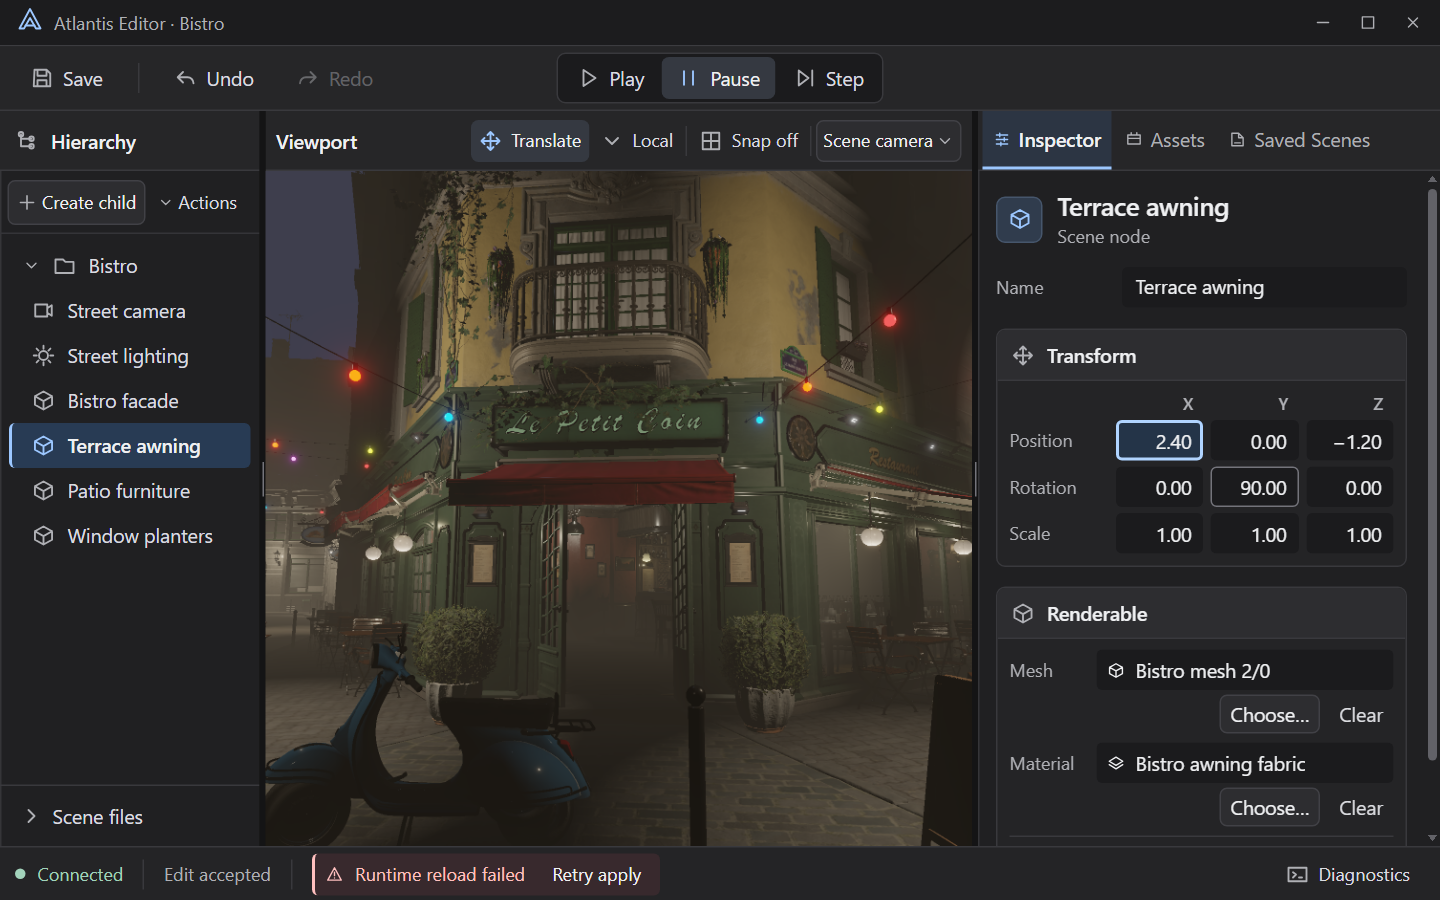
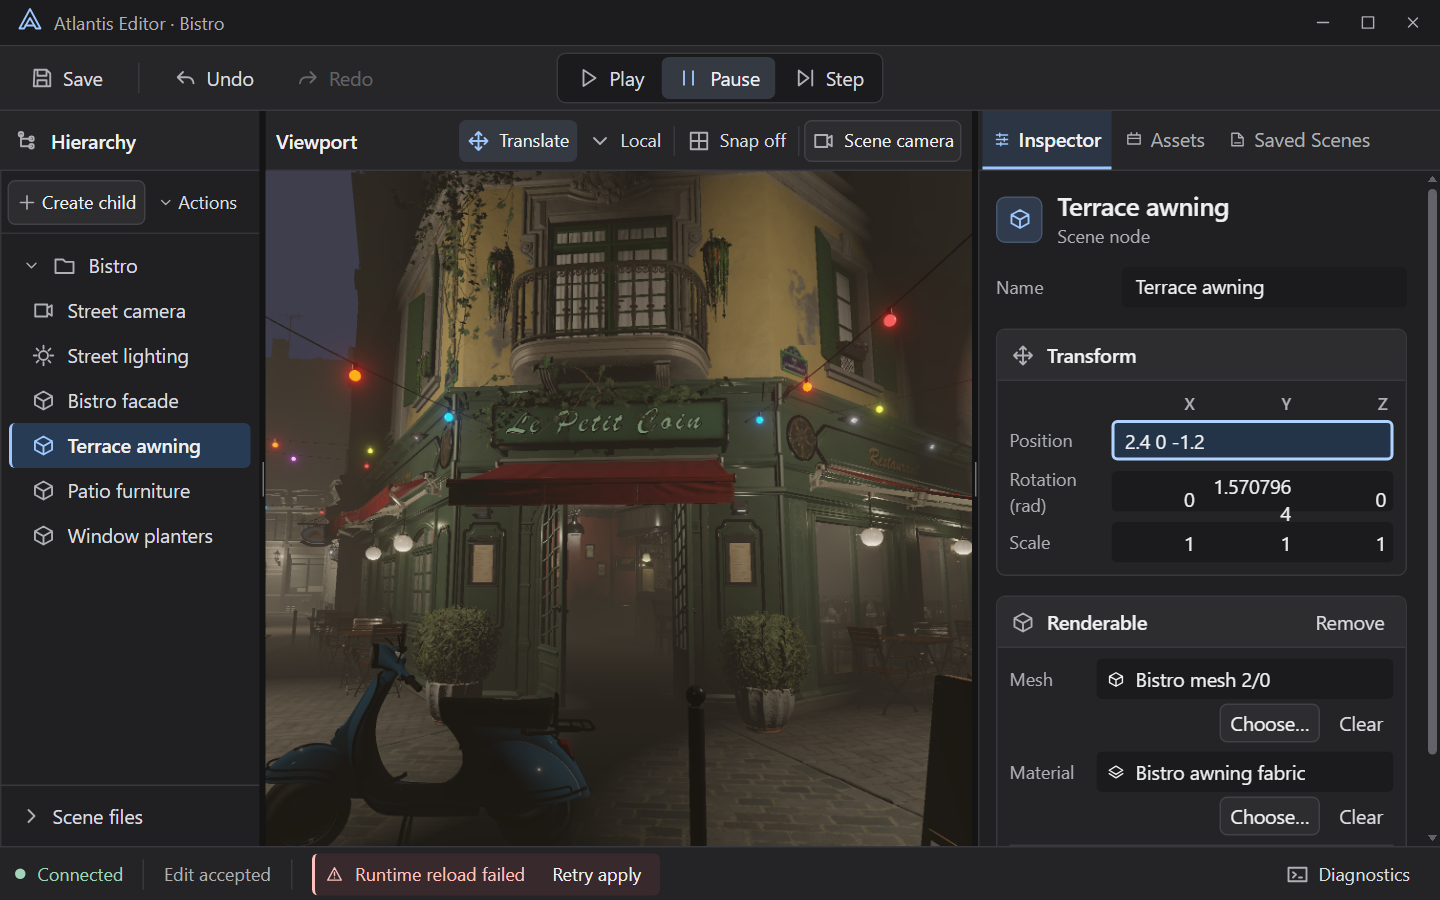
spec: settle editor visual review details

diff --git a/docs/plans/0093-editor-visual-layout.md b/docs/plans/0093-editor-visual-layout.md
@@ -20,8 +20,9 @@ while preserving current actions, authority, and state transitions.
    resources and original icon paths. Use the existing layout, list, tab,
    text and disclosure controls to recompose the command row, Viewport
    toolbar, panes, status strip and details. Establish the object and
-   component hierarchy and a shared set of Transform column headings.
-   Preserve existing pointer routes, field bindings and keyboard order.
+   component hierarchy and shared Transform column headings. Style each
+   vector as one editor over the existing reflected field. Preserve pointer
+   routes, field bindings, vector units, keyboard order and edit settlement.
 3. **S3. Workspace tabs and chooser (R2/R3/R4).** Group the current Assets
    list, selected asset, preview, Rebuild and Import controls. Group Saved
    Scenes inputs, results and logs. Keep stable search and confirmation
@@ -37,9 +38,10 @@ while preserving current actions, authority, and state transitions.
 - `src/editor_app/Atlantis.Editor/{Program,MainWindow,AssetReferencePickerWindow}.cs`
   and one private `EditorVisuals.cs` for shared resources, styles and icon
   geometry. Keep the current C# composition and project inputs.
-- `EditorSession.cs` only to pass the existing `ApplyStatus` alongside
-  the current apply message to the window. Preserve scheduling, results,
-  enablement and recovery rules.
+- `EditorSession.cs` only to publish the existing `ApplyStatus` with the
+  current message, including the lost-acceptance path. Capture them from
+  the same state and preserve document lifetime checks. The existing apply
+  control flags still determine enablement. Preserve scheduling and recovery.
 - Affected UI fixtures under `src/editor_app/tests/Atlantis.Editor.Tests/`,
   limited to layout, accessible names and keyboard behavior, Assets,
   Saved Scenes and the reference picker. Navigation in `docs/specs/README.md`.
@@ -58,37 +60,57 @@ Preserve [0082 reference editing](../specs/0082-generic-asset-reference-picker.m
 
 | Decision | Recommendation |
 | --- | --- |
-| **J1. Window layout** | Approve the refined three-pane layout, centered transport, local Viewport tools, inline scene file commands and compact workspace scrolling. |
-| **J2. Visual system and resources** | Approve neutral dark gray surfaces, the Segoe UI hierarchy, aligned XYZ columns and project-authored line icons in existing controls. |
-| **J3. Details, chooser and state** | Approve grouping for Assets and Saved Scenes, reachable technical details and the preview/confirmation proportions. Preserve existing focus, draft, apply, build/open and recovery rules. |
-| **J4. Acceptance** | Approve the actual Windows size/DPI matrix, long-content and interaction checks, and final-diff gate selection below. |
+| **J1. Window layout** | Approve the refined three-pane layout, centered transport, local Viewport tools, inline scene file commands, visible Apply and compact workspace scrolling. |
+| **J2. Visual system and resources** | Approve neutral dark gray surfaces, the Segoe UI hierarchy, aligned XYZ summaries with one editor per vector, and project-authored line icons. |
+| **J3. Details, chooser and state** | Approve grouping for Assets and Saved Scenes, reachable technical details, distinct current and candidate references, and the preview/confirmation proportions. Preserve existing focus, draft, apply, build/open and recovery rules. |
+| **J4. Acceptance** | Approve the actual Windows size/DPI matrix with live reflow and Viewport input checks, long-content and interaction checks, and final-diff gate selection. |
+
+### Recommended authorization
+
+After a human jointly approves J1–J4, Spec 0093 and Plan 0093 and merges
+this design PR, implement S2–S4 from the latest main under one authorization.
+It covers implementation, ordinary fixes inside the approved scope,
+applicable checks and a review-ready implementation PR. Reuse verification
+evidence only where its relevant inputs and environment still match. Record
+milestone results as work progresses. Follow the repository workflow for
+scope deviations, verification evidence and final human merge.
 
 ## Verification Checklist
 
 - [ ] **R1/R2. Actual Windows sizes and DPI.** Build the Windows Editor and
   run with a real embedded Runtime. Check approximately 1400 × 860 client
   DIP at 100%, 1100 × 700 at 125%, and 960 × 600 at 150% and 200% on a
-  display with enough work area. Record actual client dimensions, scaling
-  and monitor/work area. Maximize, restore and resize through the compact
-  transition. Move one instance between differently scaled monitors when
-  available, or exercise it through a Windows scale change and report the
-  substitution. Capture native-resolution main and material-chooser
-  windows at 100% and higher scaling. Capture Assets and Saved Scenes at
-  standard and compact sizes with preview and current build outcomes.
-  Check clean text and icons, usable
-  pane widths, reachable actions, no clipping, and no child viewport
-  overlap or input offset.
+  display with enough work area. Record client DIP and physical pixel
+  dimensions, actual scaling and monitor work area for each case. A missing
+  display configuration leaves that case unverified. Maximize, restore,
+  drag both splitters and cross the compact transition by resizing.
+  Move one running instance between differently scaled monitors when
+  available. On a single display, exercise a Windows scale change on
+  that instance and record the substitution and observed scaling.
+  Verify tab, selection and draft retention through reflow. Check
+  Viewport bounds and pick or gizmo hit alignment after a live scale
+  change and after resizing. Capture native-resolution main and material
+  chooser windows at 100% and higher scaling. Capture Assets and Saved
+  Scenes at standard and compact sizes. Check clean text and icons,
+  reachable commands and no child viewport overlap.
 - [ ] **R2/R3. Density, contrast and long content.** Compare the approved
   mockups with actual Windows captures. Check visible distinctions between
   resting, hover, selected, active, focused and failed states and measure
-  contrast as specified. Check XYZ alignment, accessible axis labels and
-  stable keyboard order at both sizes. Use a long Unicode node/asset name,
-  a long unbroken path, a full GUID and a multiline Runtime or build
-  failure. Confirm complete values are readable and copyable in details
+  contrast as specified. Check XYZ alignment, accessible property and axis
+  order, and one tab stop per vector at both sizes. Enter one vector edit
+  and verify one transaction, one Undo step and the correct Redo value.
+  Check Escape, invalid input, exact float text and a focused vector draft
+  across the pane reflow. Verify Rotation retains radians. Use a long
+  Unicode node/asset name, a long unbroken path, a full GUID and a
+  multiline Runtime or build failure. Confirm complete values are readable and copyable in details
   without horizontal window scrolling. Check the material chooser at
   standard size and at 600 × 600 DIP at 150% or 200%, with search and
   footer available and preview below results at the narrow size. Check
-  the non-preview variant as well.
+  the non-preview variant and its existing type filter for an untyped field.
+  Check current-reference feedback for an absent value, an asset outside the
+  snapshot and a listed wrong-type asset. Check that keyboard navigation
+  keeps the active result visible in a long list and can reach the preview
+  and footer without walking the catalog.
 - [ ] **R3/R4. Interaction and state.** Exercise keyboard traversal and
   visible focus. Expand reference details, edit the raw GUID and check
   Enter/Escape, blur, and a draft through refresh. Exercise F4, pointer
@@ -96,29 +118,31 @@ Preserve [0082 reference editing](../specs/0082-generic-asset-reference-picker.m
   rules for guarded Clear, stale or filtered-out candidates and full
   metadata/dependency access. Check Assets empty/loading/busy/refused
   states and an explicit preview retry. Verify that filter and Reload view
-  stay reachable when the preview or details scroll. Exercise the existing
-  Rebuild and Import entry points and verify busy or failed results and
-  their next actions remain reachable through the grouping. Switch candidates during an
-  outstanding preview: no stale image or error may reappear and Confirm
-  follows its existing guard. Check inline New Scene / Save As and
-  Saved Scenes build/open when available. Check successful build and
-  independent Open, stale results with Open disabled, a failed build and
-  retry, and copyable checkout, output and log paths. Exercise an authoring
-  edit with a visible failed or paused apply result, explicit recovery,
-  Undo/Redo, Save and the Viewport gizmo. Record normal Runtime exit and
-  a clean Windows Vulkan validation log during this session.
+  stay reachable when a long result list, preview or details scroll.
+  Reload view with a detail request pending and verify the selected asset's
+  new detail wins. Exercise Rebuild and Import and verify busy or failed
+  outcomes and recovery stay discoverable with the grouping collapsed.
+  Switch candidates during a pending preview and check stale image/error
+  suppression and the independent Confirm guard. Check inline New Scene
+  and Save As, and verify that receipt hints leave local selection explicit
+  in Saved Scenes. Check successful build and independent Open, stale
+  results with Open disabled, failed build and retry, and copyable checkout,
+  output and log paths. Exercise a visible failed or paused apply and an
+  external edit requiring explicit apply. Check recovery, Undo/Redo,
+  Save, the Viewport gizmo and the Scene camera reset action. Record normal
+  Runtime exit and a clean Windows Vulkan validation log during this session.
 - [ ] **Applicable gates.** Run the focused Editor build and affected managed
   model and UI checks, retaining locked package verification. Run
-  `atlantis_runtime --gate --applies` on the final diff and record the result.
+  `git diff --name-only origin/main... | atlantis_runtime --gate --applies`
+  against the final candidate and record the result.
   Editor-only styles/layout are expected to leave engine golden and
   performance gates inapplicable. If affected paths or rendered output
   select a gate, follow the existing policy, including human review of
   any engine golden change. Keep the separate #340 historical hold.
 - [ ] **Design PR.** Check local links, whitespace, palette contrast and
   mockup legibility at 100% and 150% rendered independently. Compare
-  main window and chooser before/after at the same logical dimensions. These
-  studies support visual review; the actual Windows matrix remains
-  implementation acceptance.
+  main window and chooser before/after at the same logical dimensions.
+  Use the actual Windows matrix for implementation acceptance.
 
 ## Rollback Plan
 

diff --git a/docs/specs/0093-editor-visual-layout.md b/docs/specs/0093-editor-visual-layout.md
@@ -9,10 +9,10 @@
 
 ## Summary
 
-Refine the Windows Atlantis Editor App's three-pane layout in neutral dark gray. Put scene
-commands next to the work they affect, make selection and keyboard focus
-easy to distinguish, and put object names, asset names and previews ahead
-of identifiers and diagnostics.
+Refine the Windows Atlantis Editor App's three-pane layout in neutral
+dark gray. Put scene commands next to the work they affect, make selection
+and keyboard focus easy to distinguish, and put object names, asset names
+and previews ahead of identifiers and diagnostics.
 
 ## Motivation / Problem Statement
 
@@ -55,14 +55,19 @@ panes, and the existing Inspector, Assets and conditional Saved Scenes tabs.
 Put Save and Undo/Redo at the left of a common command row, and group
 Play/Pause/Step at its center. Keep Create child near the tree and put the
 other existing structural actions in an inline **Actions** disclosure. Group
-transform mode, coordinate space, snap and scene camera at the Viewport.
+transform mode, coordinate space, snap and the existing **Scene camera**
+reset action at the Viewport.
 Place New Scene / Save As in an inline **Scene files** section with their
 existing permission and result states. Give measurement and detailed
 diagnostics a labeled **Diagnostics** section below the workspace, open
 by default for explicit diagnostic modes. Keep ordinary connection,
-document and Runtime results visible in a compact strip. Reflow within the
-same panes at small widths. Keep managed controls and feedback outside the
-native child Viewport's bounds.
+document and Runtime results visible in a compact strip. Keep the existing
+explicit Apply action available beside the apply status whenever its guard
+allows, including recovery and external edits that require apply.
+Use the width of each pane after splitter moves to choose its compact
+form. Wrap the Viewport controls in their header if necessary. Keep a
+usable Viewport at supported client sizes and keep controls and feedback
+outside the native child Viewport's bounds.
 
 **R2. Type, surfaces and states.** Use the existing Fluent controls and the
 Windows-installed Segoe UI family with system fallback. Start with 13 DIP
@@ -84,10 +89,17 @@ Require 4.5:1 contrast for enabled text and 3:1 for focus and essential
 control boundaries, including search when at rest.
 
 Use one set of X/Y/Z column headings for the Transform group. Align
-Position, Rotation and Scale against those headings and use tabular,
-right-aligned values. Keep each field's property and axis available to
-assistive technology. When columns cannot fit, repeat the axis labels in
-the reflow and preserve value precision, the draft and keyboard order.
+the unfocused Position, Rotation and Scale summaries against those
+headings using tabular values. Each row retains one vector text editor
+and one tab stop. Focus opens the whole existing space-separated vector
+draft in place. Keep the existing parser, precision and units, including
+radians for Rotation. Label the editor for accessibility with its
+property, unit when applicable and X/Y/Z order. When columns cannot fit,
+wrap the labeled summary and keep the same editor and draft. Enter,
+Escape and ordinary blur retain their existing behavior. One accepted
+edit of a vector remains one property transaction and one history step.
+Keep the other schema-derived fields and Add/Remove component actions
+with their existing guards.
 
 **R3. Information hierarchy and chooser.** Give the Inspector a distinct
 selected-object header, then group editable fields by component. Keep
@@ -98,36 +110,53 @@ Keep long values discoverable in full. Use a keyboard-reachable disclosure
 for raw GUID editing where the Inspector already permits it. Keep Choose
 and Clear and their existing guards near the reference value. At compact
 widths, wrap those actions below the value so the name retains usable
-width. Reflow and
-disclosure preserve the existing field binding, draft and focus rules.
+width. Preserve existing field binding, draft and focus rules across
+reflow and disclosure changes. Pointer Choose and F4 from the GUID
+editor discard the uncommitted raw GUID draft as they do today. Keep
+ordinary blur and Enter commits, Escape cancellation, and focus return
+to the same still-valid launcher after chooser settlement when the user
+has not moved focus elsewhere.
 
 In Assets, pin search, type filter and **Reload view** above the scrollable
 results and selected asset area. Group existing geometry and combination
 preview, material selection and **Add to Scene** around that selected
-asset. Place Copy GUID, complete identifiers, paths and dependency
-actions in **Asset details**. Group existing Rebuild and Import controls
-in labeled sections within the same pane. Keep active and failed outcomes
+asset. Bound the result list within the pane so users can scroll results
+or reach the selected asset and operation controls directly. Use the
+existing list and catalog data. Place Copy GUID, complete identifiers,
+paths and dependency actions in **Asset details**. Group existing Rebuild
+and Import controls in labeled sections within the same pane. Keep active and failed outcomes
 and their next actions discoverable when a section is collapsed.
-Keep the catalog snapshot guidance reachable, including when a Runtime
-restart is needed.
+Describe **Reload view** as a refresh of the current Runtime snapshot.
+Show restart or generation guidance with the corresponding failure or
+publication result. Keep the existing selection and detail refresh
+behavior, including suppression of responses invalidated by a reload.
 
 In Saved Scenes, group the local unit list, optional managed import root,
 Build/Open and current outcome. Keep Refresh and build configuration
 with the panel header. Show whether the current result permits Open and
 put complete checkout, build directory, executable and log text in
-selectable details. Preserve local authorization, build inputs, result
-invalidation and separate Editor process ownership.
+selectable details. Keep the authorized checkout discoverable before
+Build. Keep a New Scene or Save As receipt and its source separate from
+the local list and its selection. Show missing units, discovery errors,
+build phase and stale results with the existing recovery action. Report
+a successful Open as the start of a separate Editor. Document readiness
+is reported in that Editor. Preserve local authorization, build inputs,
+result invalidation and process ownership.
 
 In the chooser, give search and the Confirm/Cancel footer stable positions.
 Use roughly equal result and preview columns at the standard size, with
-slightly more room for the material preview. Show the opening mesh and
-explicit **Preview with material** action above a contained image. Give the
-selected candidate and Confirm a clear relationship through the footer.
-Keep identifiers, the full opening mesh identity, schemas and dependency
-actions in secondary details. Keep normal compatibility guidance as
-secondary text. Below 720 DIP stack preview below results in the scrollable
-body. The generic chooser uses the same structure without the preview.
-Confirm continues to use its existing guard independently of preview.
+slightly more room for the material preview. Show the current field
+reference separately from the candidate, including absent, outside-snapshot
+and wrong-type states. Show the opening mesh and explicit **Preview with
+material** action above a contained image. Give the selected candidate
+and Confirm a clear relationship through the footer. Keep identifiers,
+the full opening mesh identity, schemas and dependency actions in
+secondary details. Keep normal compatibility and catalog snapshot
+guidance reachable. Below 720 client DIP stack preview below a bounded
+result list in the scrollable body. The generic chooser uses the same
+structure without the preview and retains the existing type filter when
+the field has no target type. Confirm uses its existing guard
+independently of preview, including during pending or failed previews.
 
 **R4. Results and interaction.** Use existing session and operation results
 to show text for empty, loading or busy, success, disabled and failed states.
@@ -147,7 +176,8 @@ owning action or growing the command row.
 Use device-independent dimensions and existing per-monitor DPI support.
 Target a 1400 × 860 DIP client area and compact sizes down to 960 × 600 DIP
 where the work area permits. Keep the same controls and event bindings
-through reflow. No new packages, font files, third-party icon assets,
+through reflow, and preserve scroll reachability for keyboard and pointer
+users. No new packages, font files, third-party icon assets,
 background requests, polling, or Runtime frame work.
 
 ## Proposed Design
@@ -217,15 +247,15 @@ hierarchy unresolved. Keep the present window and Fluent architecture.
 [Plan 0093](../plans/0093-editor-visual-layout.md#verification-checklist)
 requires actual Windows Editor windows with the embedded Runtime, a size
 and DPI matrix, long content and representative interaction states. The
-mockups support design review; they are neither implementation evidence
-nor engine image baselines.
+mockups are visual references. The actual Windows session supplies
+implementation evidence and the existing engine baselines govern rendering.
 
 ## Risks & Open Questions
 
 Review the refined three-pane direction, typography, panel grouping and
-compact behavior before implementation. The main risks are keeping the native child HWND aligned
-during resize and preserving field focus and draft settlement through
-disclosures and reflow. The Plan tests both explicitly.
+compact behavior before implementation. The main risks are keeping the
+native child HWND aligned during resize and preserving field focus and
+draft settlement through disclosures and reflow. The Plan tests both explicitly.
 
 ## Out of Scope / Future Work
 
